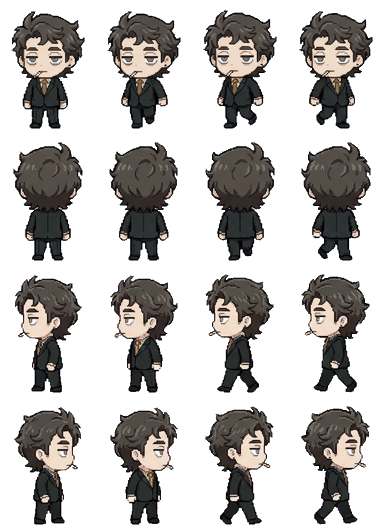
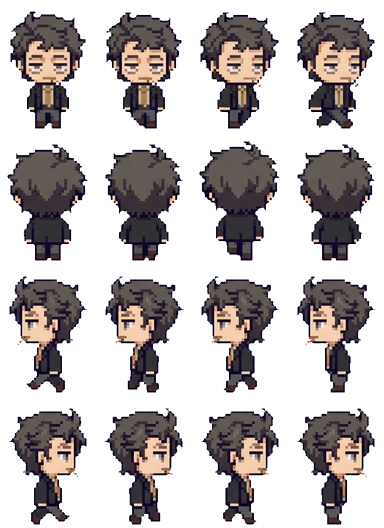
Redraw Kuji Chikai in Izumi's art style
Claude-Session: https://claude.ai/code/session_01KaPsBYLrtbRfMYNG2xeBCK

diff --git a/docs/app.js b/docs/app.js
@@ -75,7 +75,7 @@ function spr(cat, k, col, sc) {
   return `<div class="clip" style="width:${it[2] * sc}px;height:${it[3] * sc}px;POS"><img class="px" src="assets/decor/${cat}.png" alt="" style="width:${S.sw * sc}px;height:${S.sh * sc}px;margin-left:${-col * S.cw * sc}px;margin-top:${-i * S.ch * sc}px"></div>`;
 }
 const icon = (k, sz) => `<span class="itm" style="width:${sz}px;height:${sz}px"><img class="px" src="assets/ui/items.png" alt="" style="width:${IT.length * sz}px;height:${sz}px;margin-left:${-ITM[k].i * sz}px"></span>`;
-const face = (id, w) => { const s = w / 96; return `<img class="px" src="assets/ch/${id}.webp?v=29" alt="" style="position:absolute;width:${384 * s}px;height:${528 * s}px;left:${-(96 * s - w) / 2}px;top:0;max-width:none">`; };
+const face = (id, w) => { const s = w / 96; return `<img class="px" src="assets/ch/${id}.webp?v=30" alt="" style="position:absolute;width:${384 * s}px;height:${528 * s}px;left:${-(96 * s - w) / 2}px;top:0;max-width:none">`; };
 
 // ---------- 저장 ----------
 let fb = null, user = null, S = null, saveT = null;
@@ -143,7 +143,7 @@ function sleepHTML(id, r, dy) {
   const pos = r.a && r.a[0] === 'bed' ? 'left:3%;bottom:20%' : r.b && r.b[0] === 'bed' ? 'right:3%;bottom:20%' : 'left:calc(50% - 44px);bottom:6%';
   const s = 36 / 96;
   return `<div style="position:absolute;width:88px;height:56px;${pos};z-index:${dy ? 4 : 5};${dy ? `transform:translate(12px,${dy}px)` : ''}"><div style="position:absolute;inset:0;filter:brightness(.22)">
-    <div style="position:absolute;left:11px;top:1px;width:36px;height:50px;overflow:hidden;transform:rotate(-90deg)"><img class="px" src="assets/ch/${id}.webp?v=29" alt="" style="width:${384 * s}px;height:${528 * s}px;max-width:none;margin-top:${-132 * s}px"></div>
+    <div style="position:absolute;left:11px;top:1px;width:36px;height:50px;overflow:hidden;transform:rotate(-90deg)"><img class="px" src="assets/ch/${id}.webp?v=30" alt="" style="width:${384 * s}px;height:${528 * s}px;max-width:none;margin-top:${-132 * s}px"></div>
     <div style="position:absolute;left:19px;top:19px;width:67px;height:29px;border:2px solid var(--ink);border-radius:8px 6px 4px 4px;background:#8ccff5;background-image:repeating-linear-gradient(90deg,transparent 0 10px,rgba(255,255,255,.5) 10px 13px)"></div></div>
     ${dy ? '' : '<span class="emo" style="left:8px;top:-22px;color:#5b6bd6">Z z z</span>'}</div>`;
 }
@@ -153,8 +153,8 @@ function roomHTML(id, o, scale) {
     <div class="floor" style="background-color:${PAL[r.fc][1]};background-image:${tileUrl('floor', r.fl)}"></div>
     ${slot('deco', r.dc, 'left:6%;top:6%')}${slot('furn', r.a, 'left:3%;bottom:20%')}${slot('furn', r.b, 'right:3%;bottom:20%')}${slot('prop', r.pr, 'left:28%;bottom:4%;z-index:2')}
     ${id && o.sleeping && g ? sleepHTML(g, r, -16) : ''}${id && o.sleeping ? sleepHTML(id, r) : ''}${id && o.job ? `<div style="position:absolute;left:50%;top:38%;transform:translateX(-50%);z-index:5;background:#fff;border:3px solid var(--ink);border-radius:10px;padding:6px 10px;font-size:11px;text-align:center;line-height:1.5"><img src="assets/ui/ic_job.png" alt="" style="width:18px;vertical-align:-4px"> ${WORK[id] ? WORK[id][1] : esc(JOB_NAME[id]) + ' 알바 중'}${g ? `<br><small>${esc(nameOf(g))}도 같이</small>` : ''}<br><b id="jobleft">${timeLeft(o.job.until)}</b></div>` : ''}
-    ${id ? `<div class="shadow" id="shd" ${o.sleeping || o.job ? 'style="display:none"' : ''}></div><div class="man" id="man" ${o.sleeping || o.job ? 'style="display:none"' : ''}><img class="px" src="assets/ch/${id}.webp?v=29" alt="${esc(nameOf(id))}"></div><span class="emo" id="emo" hidden></span><span class="mumble" id="mum" hidden></span>` : ''}
-    ${g ? `<div class="shadow" id="gshd" ${hideG}></div><div class="man" id="gman" ${hideG}><img class="px" src="assets/ch/${g}.webp?v=29" alt="${esc(nameOf(g))}"></div><span class="emo" id="gemo" hidden></span><span class="mumble gmum" id="gmum" hidden></span>` : ''}
+    ${id ? `<div class="shadow" id="shd" ${o.sleeping || o.job ? 'style="display:none"' : ''}></div><div class="man" id="man" ${o.sleeping || o.job ? 'style="display:none"' : ''}><img class="px" src="assets/ch/${id}.webp?v=30" alt="${esc(nameOf(id))}"></div><span class="emo" id="emo" hidden></span><span class="mumble" id="mum" hidden></span>` : ''}
+    ${g ? `<div class="shadow" id="gshd" ${hideG}></div><div class="man" id="gman" ${hideG}><img class="px" src="assets/ch/${g}.webp?v=30" alt="${esc(nameOf(g))}"></div><span class="emo" id="gemo" hidden></span><span class="mumble gmum" id="gmum" hidden></span>` : ''}
     ${o.sleeping ? `<div class="night"></div><div class="sleepleft">쿨쿨 · 일어나기까지 <b id="sleepleft">${timeLeft(wakeAt(o)).replace(' 남음', '')}</b></div>` : ''}
   </div>`;
 }
@@ -167,7 +167,7 @@ function meterHTML(o) {
 const ic = (act, img, label, pressed) => `<button class="ic" data-act="${act}" ${pressed ? 'aria-pressed="true"' : ''}><img src="assets/ui/ic_${img}.png?v=2" alt="">${label}</button>`;
 
 let dropStyle = null; const cheat = {};
-const APP_V = 101, COUPONS = { NINOGUYA: 3000 };
+const APP_V = 102, COUPONS = { NINOGUYA: 3000 };
 // 쿠폰 입력 정리: 한글 자판 상태로 친 글자(ㅜㅑㅜㅐ혀ㅛㅁ)도 영어 자판 글자로 바꾸고, 대소문자·띄어쓰기·마침표는 무시해요
 const KEY = { ㄱ: 'r', ㄲ: 'R', ㄴ: 's', ㄷ: 'e', ㄸ: 'E', ㄹ: 'f', ㅁ: 'a', ㅂ: 'q', ㅃ: 'Q', ㅅ: 't', ㅆ: 'T', ㅇ: 'd', ㅈ: 'w', ㅉ: 'W', ㅊ: 'c', ㅋ: 'z', ㅌ: 'x', ㅍ: 'v', ㅎ: 'g',
   ㅏ: 'k', ㅐ: 'o', ㅑ: 'i', ㅒ: 'O', ㅓ: 'j', ㅔ: 'p', ㅕ: 'u', ㅖ: 'P', ㅗ: 'h', ㅘ: 'hk', ㅙ: 'ho', ㅚ: 'hl', ㅛ: 'y', ㅜ: 'n', ㅝ: 'nj', ㅞ: 'np', ㅟ: 'nl', ㅠ: 'b', ㅡ: 'm', ㅢ: 'ml', ㅣ: 'l',
@@ -407,7 +407,7 @@ function startTrip(k) {
   if (tg) lines[1] = `${nameOf(tg)}: ${withHim(sub(pick(GLX(tg).trip), o, c.n), tg)}`;
   const n = (FR[id] || [4, 4, 4, 4])[3], el = document.createElement('div'); el.className = 'tripview';
   el.innerHTML = `<div class="tsay"> </div><div class="tstage" style="background-image:url(assets/travel/${k}.png?v=2)"><div class="tplace">${esc(c.n)}</div>
-    <div class="twalker"><img class="px" src="assets/ch/${id}.webp?v=29" alt=""></div>${tg ? `<div class="twalker tgirl"><img class="px" src="assets/ch/${tg}.webp?v=29" alt=""></div>` : ''}<span class="emo tjoy">♪</span></div>
+    <div class="twalker"><img class="px" src="assets/ch/${id}.webp?v=30" alt=""></div>${tg ? `<div class="twalker tgirl"><img class="px" src="assets/ch/${tg}.webp?v=30" alt=""></div>` : ''}<span class="emo tjoy">♪</span></div>
     <div class="tbar"><i></i></div><button class="btn white tskip" data-tskip="1">바로 돌아오기</button>`;
   document.body.appendChild(el);
   const gimg = el.querySelector('.tgirl img'), gn = tg ? (FR[tg] || [4, 4, 4, 4])[3] : 1;
@@ -636,7 +636,7 @@ setInterval(() => { if (S && user) { tickTime(); save(); } }, 60000);
     if (nv > APP_V && !location.search.includes('u=' + nv)) { location.replace(location.pathname + '?u=' + nv); return; }
   } catch { }
   app.innerHTML = '<div class="start"><div class="egg"><div class="scr"></div></div><div class="note">불러오는 중....</div></div>';
-  const [c, t, f, it, mu, ct, tv, gl, sts] = await Promise.all(['data/chars.json', 'data/talk.json', 'data/frames.json', 'data/items.json', 'data/mumble.json', 'data/countries.json', 'data/travel.json', 'data/girls.json', 'data/sets.json'].map(u => fetch(u + '?v=101').then(r => r.ok ? r.json() : {})));
+  const [c, t, f, it, mu, ct, tv, gl, sts] = await Promise.all(['data/chars.json', 'data/talk.json', 'data/frames.json', 'data/items.json', 'data/mumble.json', 'data/countries.json', 'data/travel.json', 'data/girls.json', 'data/sets.json'].map(u => fetch(u + '?v=102').then(r => r.ok ? r.json() : {})));
   CH = c; CHM = Object.fromEntries(c.map(x => [x.id, x])); TALK = t; FR = f; IT = it; ITM = Object.fromEntries(it.map(x => [x.k, x])); MUM = mu; CTRY = ct; TRV = tv; GL = Array.isArray(gl) ? gl : []; SETS = Array.isArray(sts) ? sts : []; GLM = Object.fromEntries(GL.map(x => [x.id, x]));
   try { await initFirebase(); } catch (e) { console.warn('Firebase 연결 실패, 기기 저장으로', e); fb = null; }
   if (fb) {

diff --git a/docs/index.html b/docs/index.html
@@ -18,6 +18,6 @@
 <main id="app" aria-live="polite"></main>
 <div id="toast" role="status" hidden></div>
 <script src="firebase-config.js?v=3"></script>
-<script type="module" src="app.js?v=101"></script>
+<script type="module" src="app.js?v=102"></script>
 </body>
 </html>
